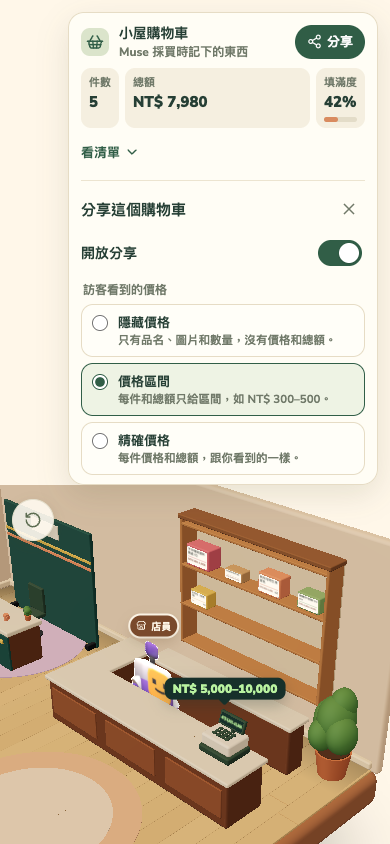
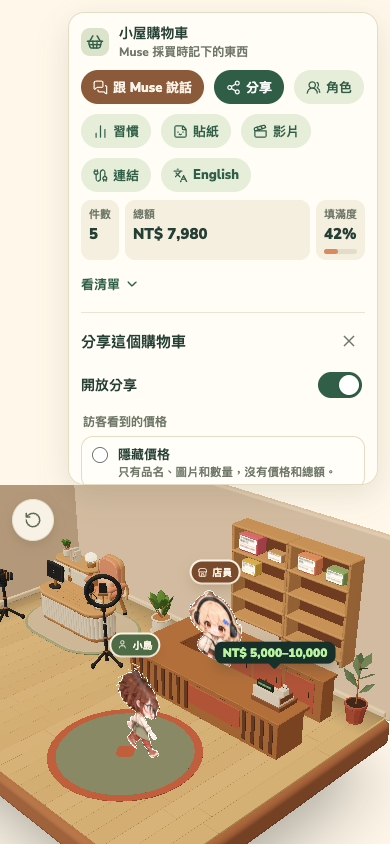
fix: 驗證腳本跟上購物習慣工具與開箱後的訪客頁
- verify:mcp、verify:adapter 的工具清單補上 habits_report
- screenshots:share 的訪客頁改等櫃台上的五個快遞箱（訪客還沒拆，貨架是空的），README 截圖重拍
- 驗證 skill 註明 screenshots:share 會覆寫 docs/screenshots

diff --git a/.claude/skills/verify-showroom/SKILL.md b/.claude/skills/verify-showroom/SKILL.md
@@ -26,7 +26,7 @@ npm run build && npm run typecheck && npx vitest run
 | `adapter/` | `npm run verify:adapter` |
 | 店員（`worker/clerk.ts`、`shared/clerk.ts`、`shared/meta.ts`） | vitest 的 `tests/clerk.test.ts`；要看畫面就開下面的 `showroom-clerk` |
 | 房間、貨架、包裹、開箱（`src/cart`、`src/room`） | `node scripts/screenshots-unbox-play.mjs`，再看截圖 |
-| 分享面板、訪客頁 | `npm run screenshots:share` |
+| 分享面板、訪客頁 | `npm run screenshots:share`（會覆寫 `docs/screenshots/` 裡 README 用的圖，有變就一起 commit） |
 | 角色、店員走路 | `node scripts/screenshots-cast.mjs`（`CAST_SCREENSHOTS_DIR` 要設） |
 | `scripts/` 本身 | 對每支改過的檔案 `node --check`，再實際跑一支用到改動的腳本 |
 
